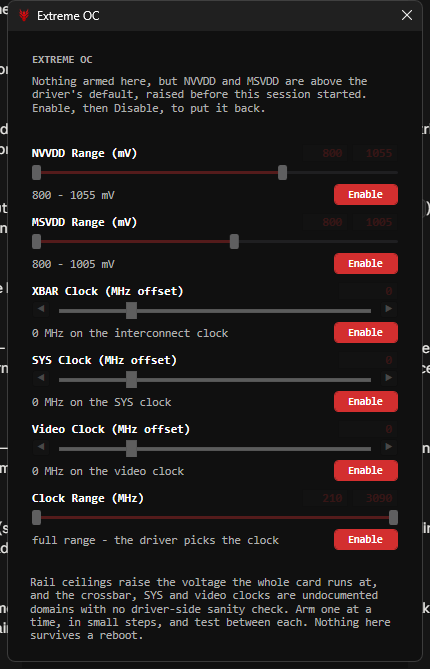
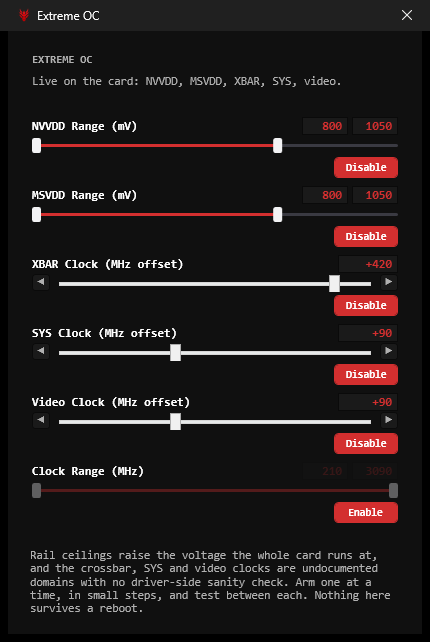
Roch GPU 1.0.2
Version bump, and the README brought back in line: the test count, a note that a
voltage cap is measured against the ceiling the card can actually reach rather
than the stock one, and fresh main-window and XOC screenshots - the XOC one
because six caption lines came out of that window, the main one because the title
bar carries the version.

diff --git a/README.md b/README.md
@@ -106,6 +106,10 @@ Drag a point, or select one and use ↑/↓ to nudge it by a 5 MHz step (Shift =
 everything above it). Double-click resets a point, right-click resets all. **Flatten above N mV** is
 the undervolt, and is where the voltage cap lives.
 
+The cap is measured against the ceiling the card can actually reach, and that moves with the boost:
+a 5070 Ti tops out at 1035 mV stock and 1100 mV with the boost wound fully open, so a cap anywhere
+in between holds it under load rather than doing nothing.
+
 A marker shows where the card actually stops — the table describes voltages well above anything a
 given card selects, so the unreachable stretch is shaded rather than left looking tunable.
 
@@ -231,7 +235,7 @@ powershell -ExecutionPolicy Bypass -File .\build.ps1
 That builds, tests and publishes `dist\RochGPU.exe`. If you don't have the SDK, `SETUP.bat` does the
 lot in one double-click.
 
-**Tests:** `dotnet run --project tests/GpuTuner.Core.Tests -c Release` → `259 passed, 0 failed`. The
+**Tests:** `dotnet run --project tests/GpuTuner.Core.Tests -c Release` → `272 passed, 0 failed`. The
 runner is dependency-free — the whole project has no NuGet packages at all — so most of the engine
 can be changed without a GPU in front of you.
 
@@ -365,7 +369,7 @@ setup.ps1                  as above, plus SDK install and launch (driven by SETU
 src/GpuTuner.Core          engine: backend abstraction, NVIDIA + AMD backends, mock, profiles, fan curve
 src/GpuTuner.App           the executable — WPF window, and the entry point that picks a half
 src/GpuTuner.Cli           the command-line half, compiled into the same executable
-tests/GpuTuner.Core.Tests  dependency-free test runner (259 checks, no hardware needed)
+tests/GpuTuner.Core.Tests  dependency-free test runner (272 checks, no hardware needed)
 tools/amd                  read-only PowerShell probes used to map the AMD driver surface
 .github/workflows/ci.yml   build + test on Linux, publish + smoke-test on Windows
 third_party/NvAPIWrapper   vendored NvAPIWrapper (LGPL-3.0) — see THIRD-PARTY-NOTICES.md
